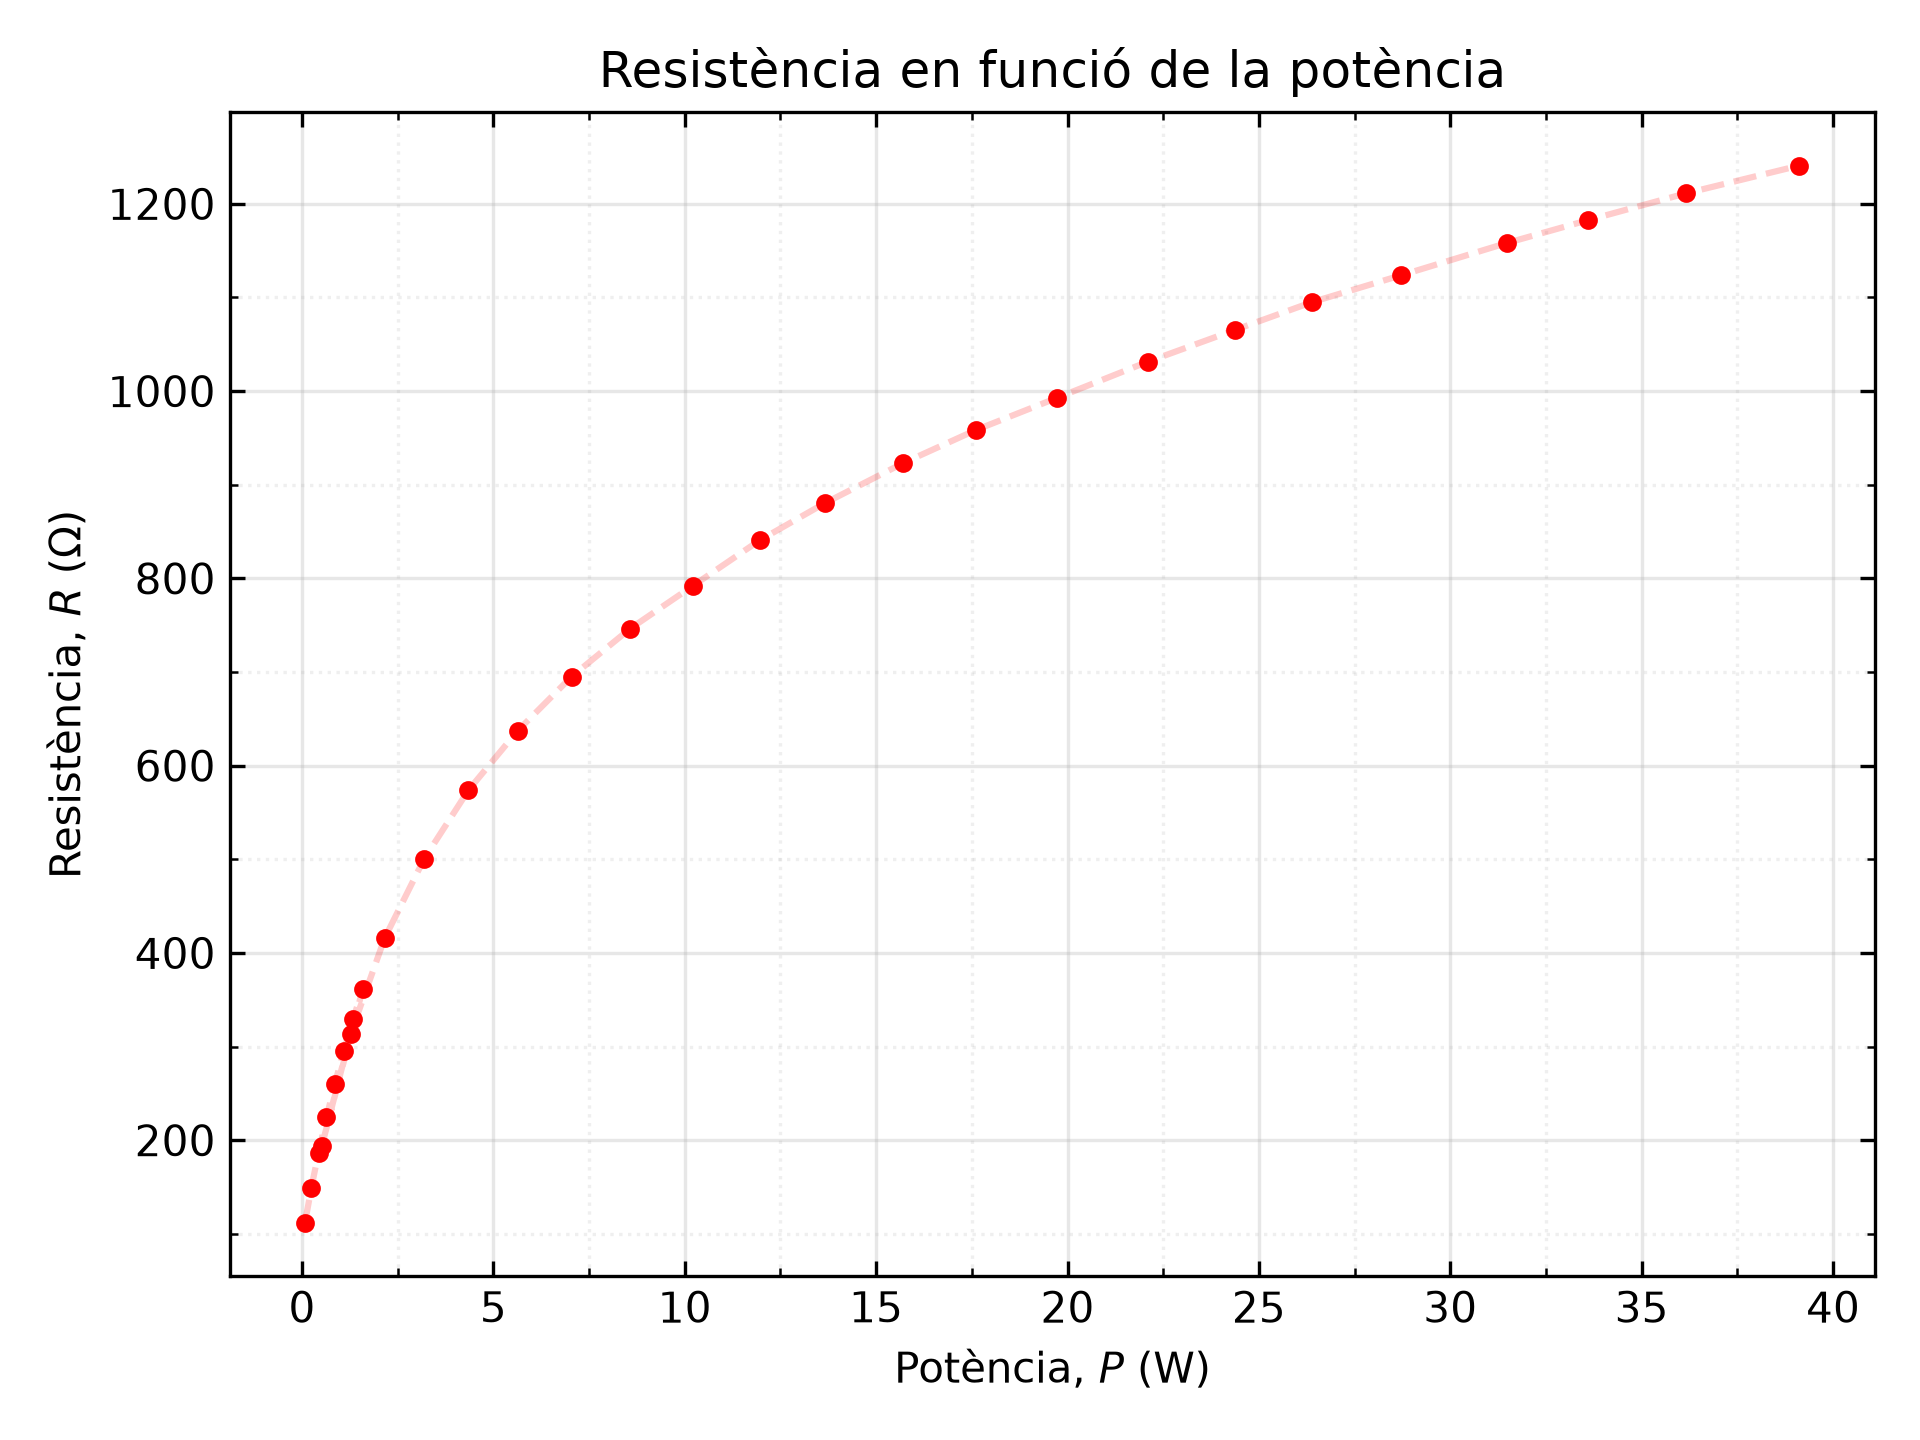
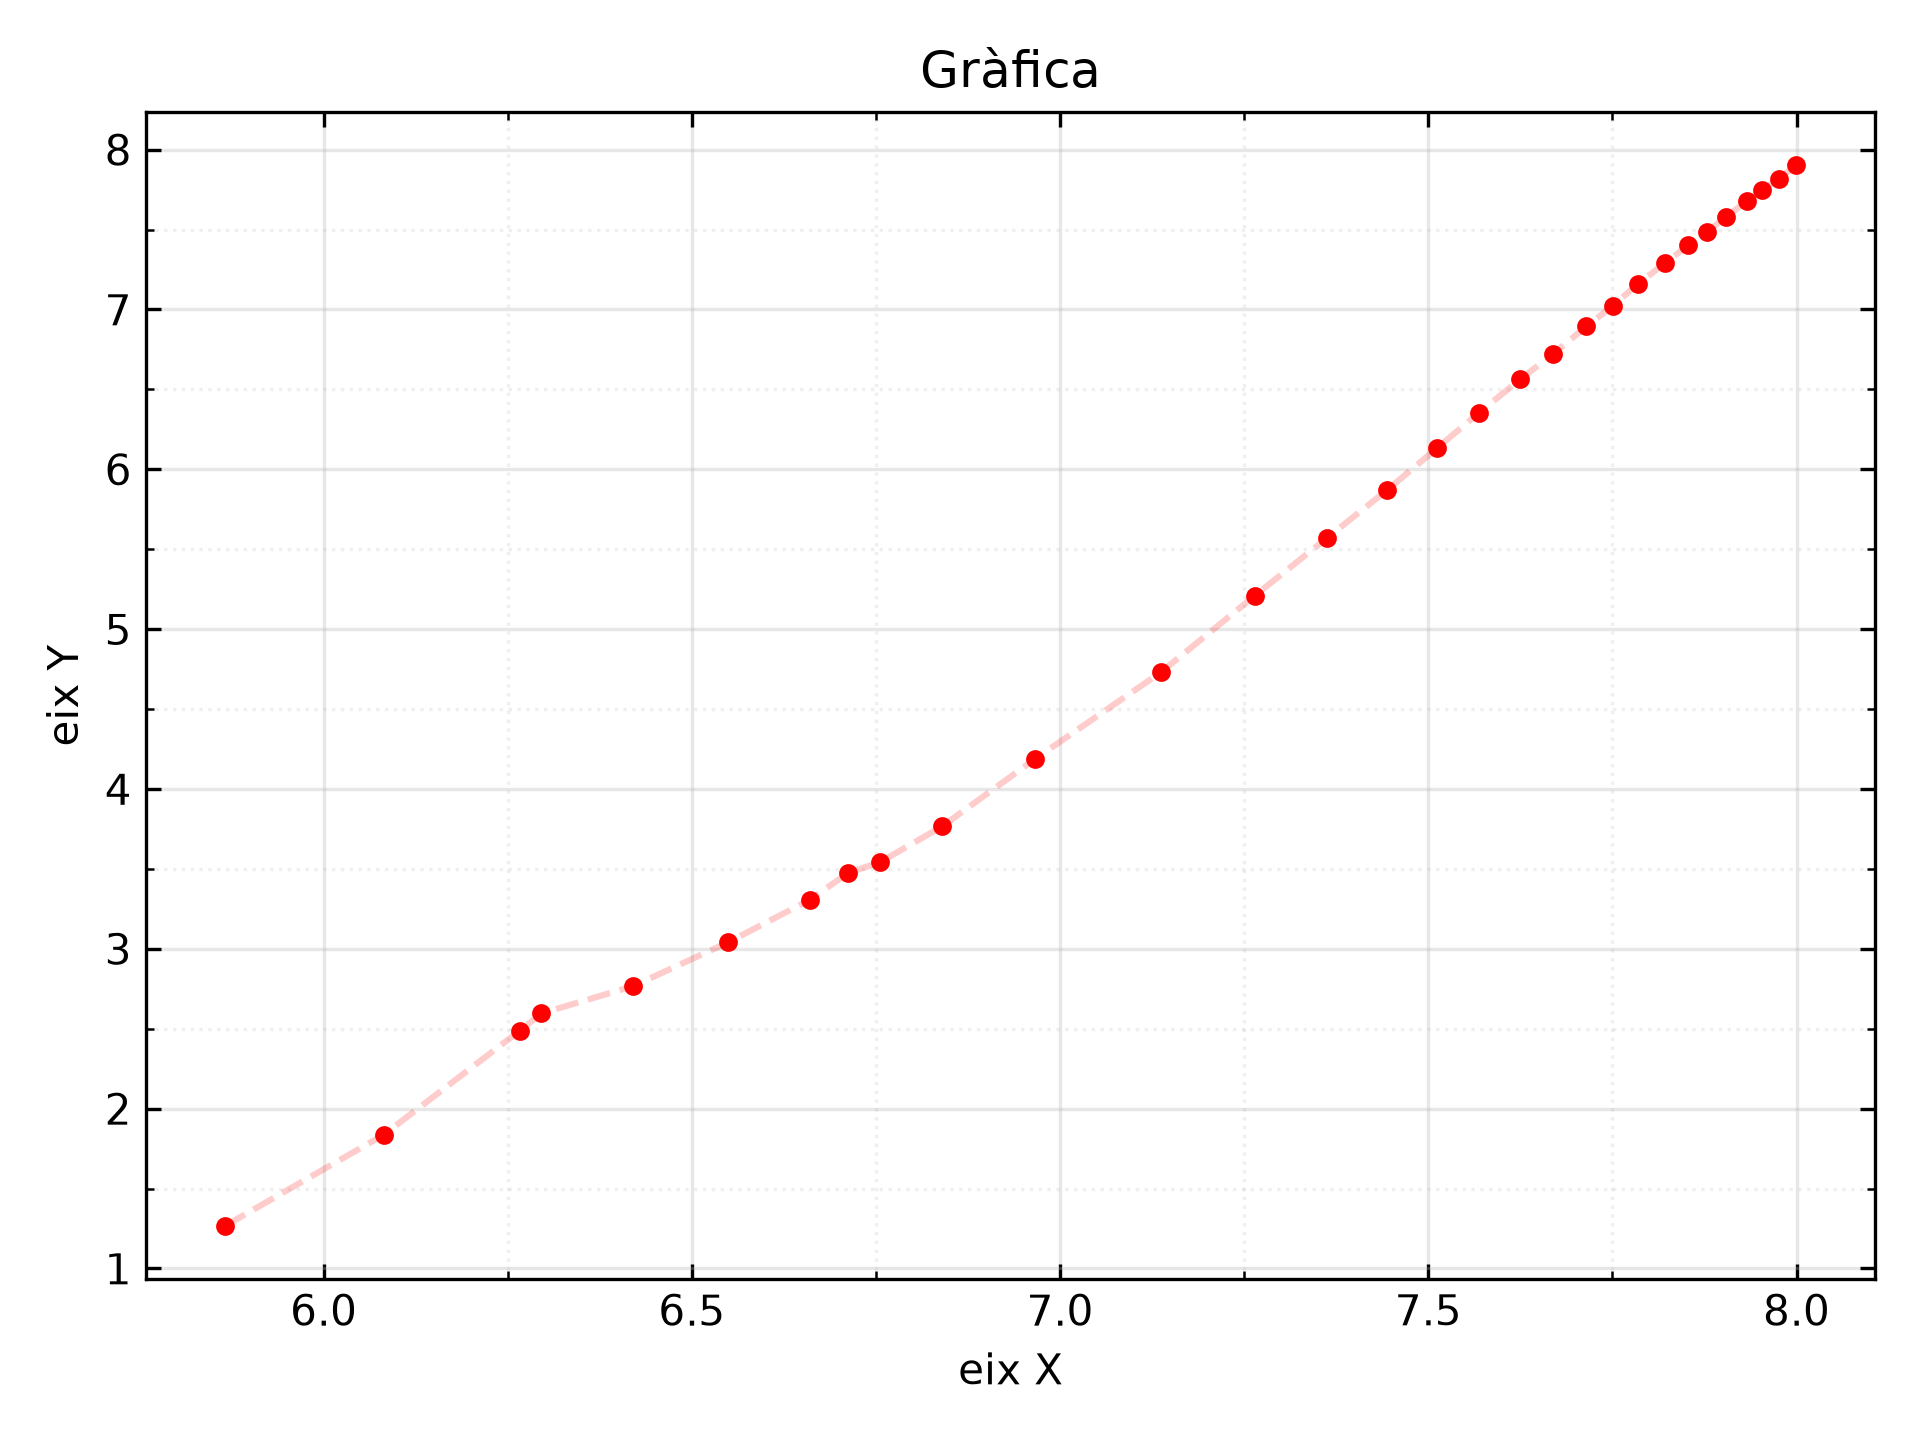
Lab termo - P1b

diff --git a/lab_termo/P1b.py b/lab_termo/P1b.py
@@ -3,7 +3,7 @@
 import matplotlib.pyplot as plt
 from matplotlib.ticker import AutoMinorLocator
 
-def graph(x, y, xerr=[], yerr=[], name="prova", xname="eix X", yname="eix Y", title="Gràfica"):
+def graph(x, y, xerr=[], yerr=[], name="prova", xname="eix X", yname="eix Y", title="Gràfica", autoSave=True, line=False):
 
     if len(xerr) == 0:
         xerr = np.zeros(len(x))
@@ -22,12 +22,13 @@ def graph(x, y, xerr=[], yerr=[], name="prova", xname="eix X", yname="eix Y", ti
         markersize = 3.5
     )
 
-    ax.plot(
-        np.sort(x), np.sort(y),
-        linestyle="--",
-        color="red",
-        alpha=0.2
-    )
+    if line:
+        ax.plot(
+            np.sort(x), np.sort(y),
+            linestyle="--",
+            color="red",
+            alpha=0.2
+        )
 
     # Eixos
     ax.set_xlabel(xname)
@@ -53,8 +54,11 @@ def graph(x, y, xerr=[], yerr=[], name="prova", xname="eix X", yname="eix Y", ti
 
     plt.tight_layout()
     # plt.axis("equal")
-    plt.savefig(f"GraficsP1b/{name}.png", dpi=300)
-    plt.show()
+    if autoSave:
+        plt.savefig(f"GraficsP1b/{name}.png", dpi=300)
+    else:
+         return fig, ax
+    
 
 
 def graphReg(x, y, xerr=[], yerr=[], name="prova", xname="eix X", yname="eix Y", title="Gràfica"):
@@ -130,43 +134,29 @@ T = np.array([352.7822972, 437.679356, 526.7069832, 614.3250301, 698.550656, 780
 
 R = [111.9819549, 148.4537313, 186.7, 224.3407129, 260.5240418, 295.7403624, 329.3886792, 361.7377644, 193.3747573, 313.6654088, 415.8666667, 500.4531328, 573.9126437, 637.4978723, 695.0250497, 746.1654528, 792.1515419, 840.642953, 880.324498, 923.2797546, 958.6095941, 992.8124911, 1031.325769, 1065.337566, 1095.205155, 1123.730663, 1158.180583, 1182.582789, 1211.128199, 1240.890141]
 
+Rad = np.array([3.545454545, 6.272727273, 12.04545455, 15.90909091, 20.90909091, 27.27272727, 34.54545455, 43.18181818, 13.40909091, 32.27272727, 65.90909091, 113.1818182, 182.7272727, 262.7272727, 354.5454545, 460.0, 573.6363636, 709.0909091, 829.0909091, 986.3636364, 1122.727273, 1286.363636, 1463.636364, 1636.363636, 1784.090909, 1954.545455, 2163.636364, 2309.090909, 2486.363636, 2706.818182])
+
 inc_R = [0.5754131132, 0.4579595661, 0.4538619486, 0.4728894105, 0.4976148199, 0.5251729513, 0.551592236, 0.5768258384, 0.435731298, 0.5283895118, 0.6034799915, 0.6482740205, 0.677930628, 0.694559611, 0.7059004014, 0.7107390744, 0.7112344817, 0.7178752026, 0.7192593402, 0.7197679518, 0.7188764001, 0.7157721616, 0.7158088765, 0.7152375682, 0.7161385034, 0.7135304008, 0.7129260538, 0.7118661772, 0.7112037377, 0.7088973264]
 
 inc_T = np.array([1.801130691, 3.112799561, 4.890380379, 6.695314141, 8.445199804, 10.15455587, 11.79039073, 13.36451393, 5.198845241, 11.02290661, 15.99731537, 20.11627822, 23.69419311, 26.79109847, 29.59329286, 32.08429333, 34.32420611, 36.68718736, 38.62064948, 40.71373271, 42.43527714, 44.1018295, 45.97884661, 47.63651737, 49.09238392, 50.48261235, 52.16183804, 53.35129068, 54.7427783, 56.19349683])
 
 inc_P = np.array([0.000721576971, 0.0007400809772, 0.00104569793, 0.001343426797, 0.001639521404, 0.001934994487, 0.002231168531, 0.002527904627, 0.001155668335, 0.00213731444, 0.003128440276, 0.004128234893, 0.005131256923, 0.006137128723, 0.007143966186, 0.008152468587, 0.009162300402, 0.01020003032, 0.01114869959, 0.01223904941, 0.01319875043, 0.01421008873, 0.01532095129, 0.01635136075, 0.01724965678, 0.01822074086, 0.01936238721, 0.02021148247, 0.02121185773, 0.02233469639])
 
+inc_Rad = np.array([0.2272727273, 0.2272727273, 0.2272727273, 0.2272727273, 0.2272727273, 0.2272727273, 0.2272727273, 0.2272727273, 0.9090909091, 0.9090909091, 0.9090909091, 0.9090909091, 0.9090909091, 0.9090909091, 2.272727273, 2.272727273, 2.272727273, 2.272727273, 4.545454545, 4.545454545, 4.545454545, 4.545454545, 4.545454545, 4.545454545, 4.545454545, 4.545454545, 4.545454545, 4.545454545, 4.545454545, 4.545454545])
+
 T_ambient = 27.3+273.15
 
-lnP = np.log(P)
+#Q7
 
-lnT = np.log(T-T_ambient)
-
-inc_lnP = inc_P/P
-
-inc_lnT = (inc_T + 0.1)/(T-T_ambient)
+fig, ax = graph(T[11:], Rad[11:], xerr=inc_T[11:], yerr=inc_Rad[11:], xname=r"Temperatura, $T(K)$", yname=r"Radiació emesa, $P(\mu W$)", title="Regressió de la radiació emesa en funció de la temperatura\n(Sense els 12 primers punts)", autoSave=False)
 
 
-graph(lnT, lnP, xerr=inc_lnT, yerr=inc_lnP, name="Q4", xname=r"$\ln(\Delta T)$", yname=r"$\ln(P)$", title=r"$\ln(P)$ en funció de $\ln(\Delta T)$, amb $\Delta T = T-T_a$")
+lnRad = np.log(Rad)
 
-idx = np.argsort(T)
-lnT = lnT[idx]
-lnP = lnP[idx]
+lnT   = np.log(T)
 
-for i in range(len(lnP)-3):
-    coef, cov = np.polyfit(lnT[:-i-1], lnP[:-i-1], 1, cov=True)
 
-    pendent = coef[0]
-    ordenada = coef[1]
-
-    inc_pendent = np.sqrt(cov[0, 0])
-    inc_ordenada = np.sqrt(cov[1, 1])
-
-    # print(f"Agafant desde n={i}:")
-    # print(f"Pendent = {pendent:.3f} ± {inc_pendent:.3f}")
-    # print(f"Ordenada = {ordenada:.3f} ± {inc_ordenada:.3f}\n")
-
-coef, cov = np.polyfit(lnT[:10], lnP[:10], 1, cov=True)
+coef, cov = np.polyfit(lnT[11:], lnRad[11:], 1, cov=True)
 
 pendent = coef[0]
 ordenada = coef[1]
@@ -177,4 +167,55 @@ inc_ordenada = np.sqrt(cov[1, 1])
 print(f"Pendent = {pendent:.3f} ± {inc_pendent:.3f}")
 print(f"Ordenada = {ordenada:.3f} ± {inc_ordenada:.3f}\n")
 
-graphReg(lnT[:10], lnP[:10], xerr=inc_lnT[idx][:10], yerr=inc_lnP[idx][:10], name="Q5", xname=r"$\ln(\Delta T)$", yname=r"$\ln(P)$", title=r"$\ln(P)$ en funció de $\ln(\Delta T)$, regressió lineal (10 primers punts)")
+
+eix_x = np.linspace(int(T[11]-50), int(T[-1]+50), 1000)
+plt.plot(eix_x, eix_x**pendent * np.e**ordenada, color="crimson", linestyle="--", alpha=0.5)
+
+plt.savefig(f"GraficsP1b/Q7b.png", dpi=300)
+
+
+graph(lnT, lnRad, line=True, name="Q8", xname=r"$\ln (T)$", yname=r"$\ln (P)$", title=r"$\ln (P)$ en funció de $\ln(T)$")
+
+# #Q 2-5
+
+# lnP = np.log(P)
+
+# lnT = np.log(T-T_ambient)
+
+# inc_lnP = inc_P/P
+
+# inc_lnT = (inc_T + 0.1)/(T-T_ambient)
+
+
+# graph(lnT, lnP, xerr=inc_lnT, yerr=inc_lnP, name="Q4", xname=r"$\ln(\Delta T)$", yname=r"$\ln(P)$", title=r"$\ln(P)$ en funció de $\ln(\Delta T)$, amb $\Delta T = T-T_a$")
+
+# idx = np.argsort(T)
+# lnT = lnT[idx]
+# lnP = lnP[idx]
+
+# for i in range(len(lnP)-3):
+#     coef, cov = np.polyfit(lnT[:-i-1], lnP[:-i-1], 1, cov=True)
+
+#     pendent = coef[0]
+#     ordenada = coef[1]
+
+#     inc_pendent = np.sqrt(cov[0, 0])
+#     inc_ordenada = np.sqrt(cov[1, 1])
+
+#     # print(f"Agafant desde n={i}:")
+#     # print(f"Pendent = {pendent:.3f} ± {inc_pendent:.3f}")
+#     # print(f"Ordenada = {ordenada:.3f} ± {inc_ordenada:.3f}\n")
+
+# coef, cov = np.polyfit(lnT[:10], lnP[:10], 1, cov=True)
+
+# pendent = coef[0]
+# ordenada = coef[1]
+
+# inc_pendent = np.sqrt(cov[0, 0])
+# inc_ordenada = np.sqrt(cov[1, 1])
+
+# print(f"Pendent = {pendent:.3f} ± {inc_pendent:.3f}")
+# print(f"Ordenada = {ordenada:.3f} ± {inc_ordenada:.3f}\n")
+
+# graphReg(lnT[:10], lnP[:10], xerr=inc_lnT[idx][:10], yerr=inc_lnP[idx][:10], name="Q5", xname=r"$\ln(\Delta T)$", yname=r"$\ln(P)$", title=r"$\ln(P)$ en funció de $\ln(\Delta T)$, regressió lineal (10 primers punts)")
+

diff --git a/lab_termo/excelToArray.py b/lab_termo/excelToArray.py
@@ -1,34 +1,34 @@
 excel = """
-1,801130691
-3,112799561
-4,890380379
-6,695314141
-8,445199804
-10,15455587
-11,79039073
-13,36451393
-5,198845241
-11,02290661
-15,99731537
-20,11627822
-23,69419311
-26,79109847
-29,59329286
-32,08429333
-34,32420611
-36,68718736
-38,62064948
-40,71373271
-42,43527714
-44,1018295
-45,97884661
-47,63651737
-49,09238392
-50,48261235
-52,16183804
-53,35129068
-54,7427783
-56,19349683
+0,2272727273
+0,2272727273
+0,2272727273
+0,2272727273
+0,2272727273
+0,2272727273
+0,2272727273
+0,2272727273
+0,9090909091
+0,9090909091
+0,9090909091
+0,9090909091
+0,9090909091
+0,9090909091
+2,272727273
+2,272727273
+2,272727273
+2,272727273
+4,545454545
+4,545454545
+4,545454545
+4,545454545
+4,545454545
+4,545454545
+4,545454545
+4,545454545
+4,545454545
+4,545454545
+4,545454545
+4,545454545
 """
 
 result = "["
